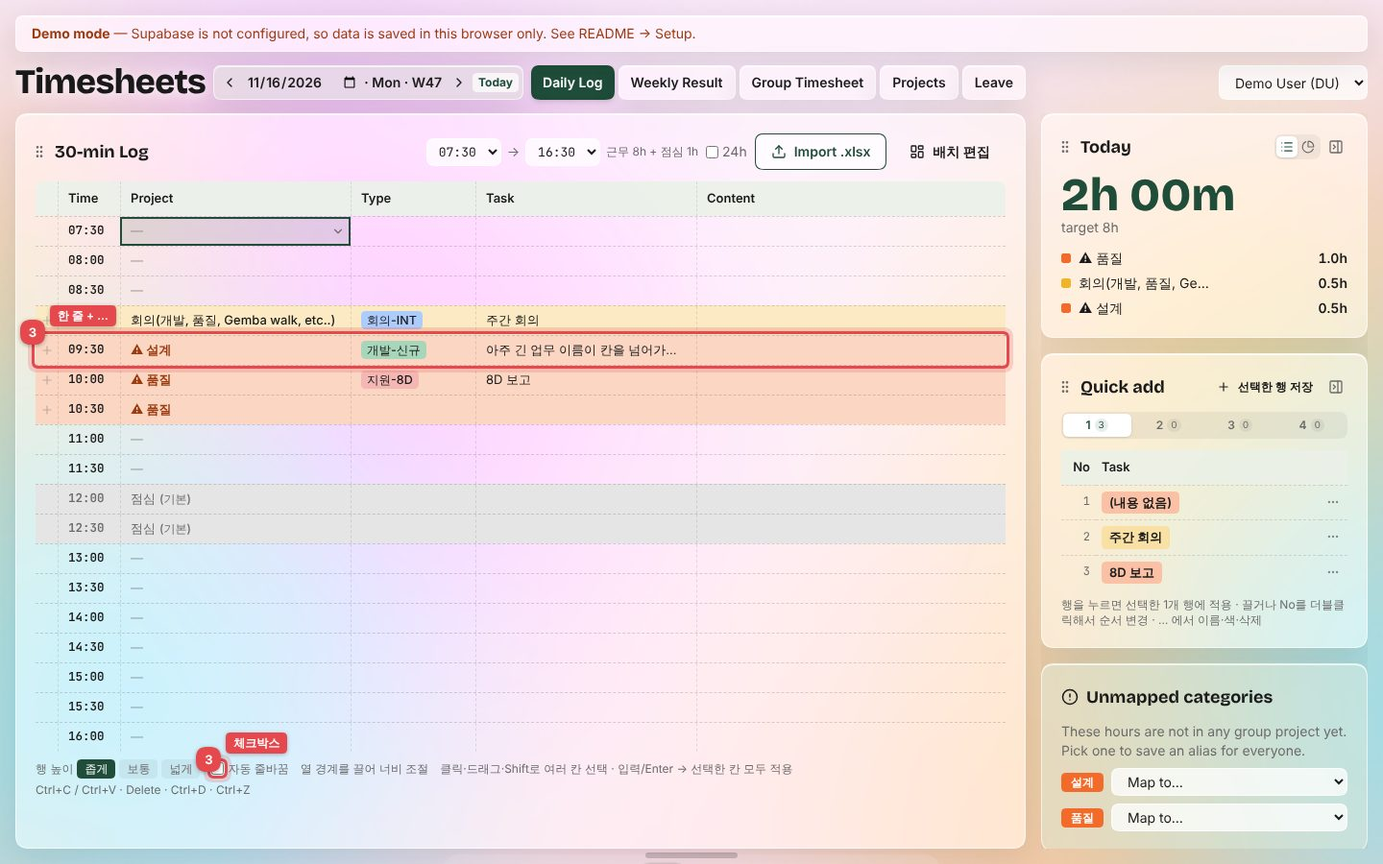
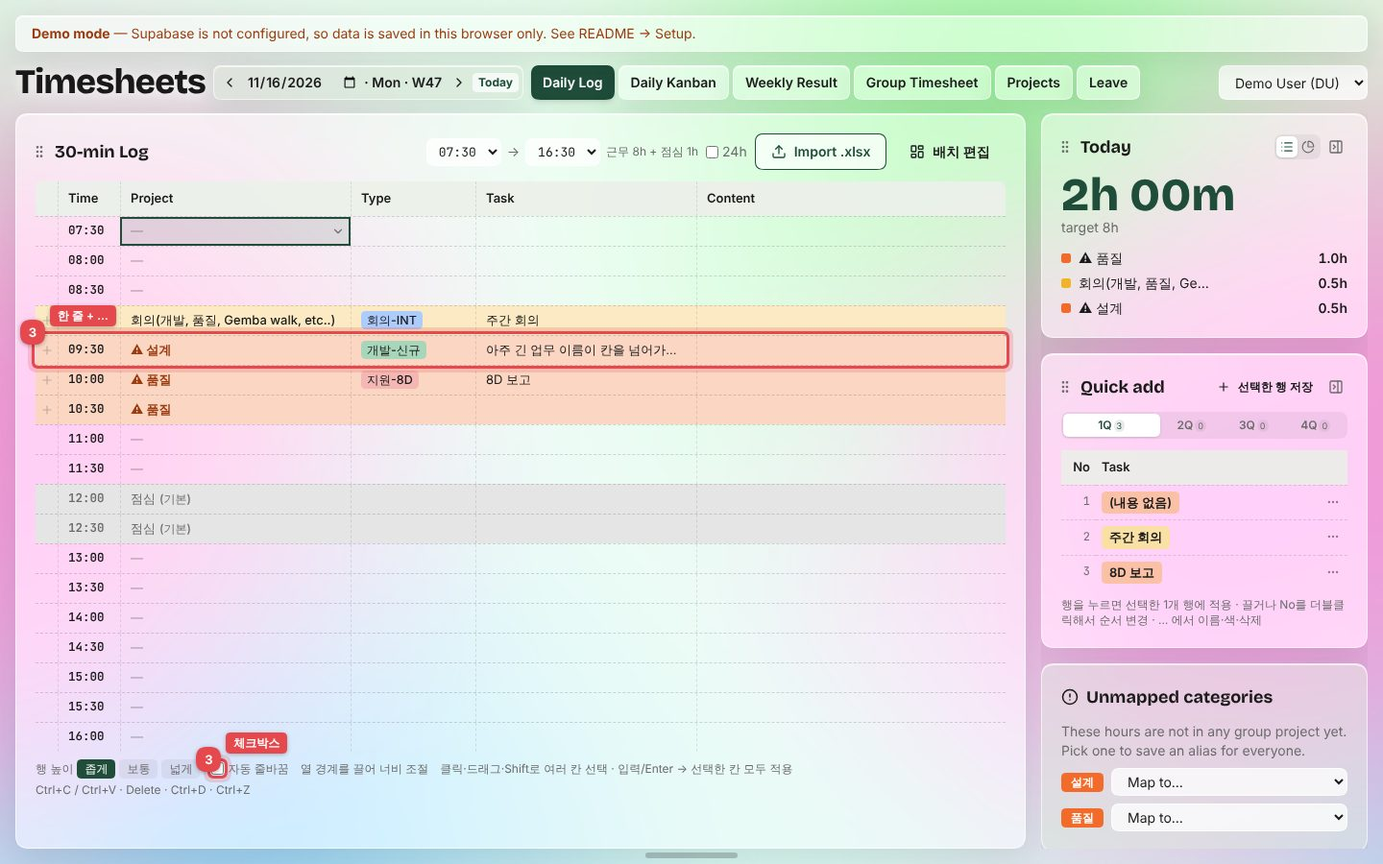
Verification reports: Daily Kanban, layout save without flash (commit f5d5a68)
Claude-Session: https://claude.ai/code/session_01A1L3RATWraiPWfjj96SejH

diff --git a/docs/test-reports/2026-11-26-layout/index.html b/docs/test-reports/2026-11-26-layout/index.html
@@ -49,10 +49,10 @@ a { color: var(--accent) } a:focus-visible, summary:focus-visible { outline: 2px
 @media (max-width: 640px) { dl { grid-template-columns: 1fr } h1 { font-size: 1.5rem } }
 </style></head><body><div class="wrap">
 <header class="head"><a href="../index.html" class="eyebrow">← 검증 보고서 목록</a><p class="eyebrow">검증 보고서 · E2E</p><h1>창 배치 편집 · 오른쪽 Dock · Today 그래프 · 자동 줄바꿈 · 빠른 등록</h1>
-<div class="meta"><span>날짜 2026-11-26</span><span>커밋 <code>873f7ac</code></span><span>스위트 <code>tests/e2e/batchO.e2e.cjs</code></span><span>Chromium 157.0.8103.78 · 1440×900 (휴대폰 390×844)</span><span>데모 모드(가상 데이터)</span></div></header>
-<section class="summary" aria-label="결과 요약"><span class="pill pass">PASS</span><strong>21 / 21</strong><span>테스트 케이스 통과 · 증적 화면 10장</span></section>
+<div class="meta"><span>날짜 2026-11-26</span><span>커밋 <code>f5d5a68</code></span><span>스위트 <code>tests/e2e/batchO.e2e.cjs</code></span><span>Chromium 157.0.8103.78 · 1440×900 (휴대폰 390×844)</span><span>데모 모드(가상 데이터)</span></div></header>
+<section class="summary" aria-label="결과 요약"><span class="pill pass">PASS</span><strong>22 / 22</strong><span>테스트 케이스 통과 · 증적 화면 10장</span></section>
 <section class="req"><div class="box"><h2>요청</h2><p>Task 없이 저장하면 (내용 없음) 또는 확인. 반복 업무 → 빠른 등록. 자동 줄바꿈 체크박스. 30-min Log · Today · 반복 업무 창의 크기·위치 조절(점 그리드, 아이폰처럼 흔들흔들, 저장/취소/기본 설정 토스트, 사용자마다 저장). Today 도넛 그래프. Today · 반복 업무를 아래 Dock처럼 오른쪽으로 숨기는 기능과 자석 체크박스.</p></div><div class="box"><h2>인수 기준</h2><ol><li>Task가 빈 행을 저장하려 하면 확인을 묻고, 저장하면 표에 (내용 없음)으로 보인다(프로젝트 이름이 아니라).</li><li>창 이름은 빠른 등록(영문 화면은 Quick add).</li><li>자동 줄바꿈을 끄면 긴 글이 한 줄로 줄고(행 높이 그대로) 마우스를 올리면 전체 글. 설정은 사람마다 저장.</li><li>Today 그래프 보기: 도넛, 가운데 합계, 항목별 %. 마우스를 올린 항목의 %가 가운데에. 보기 선택은 저장.</li><li>배치 편집(버튼 또는 제목줄 끌기): 점 그리드, 창이 흔들림, 옮기기·크기 조절이 그리드에 맞춰짐, 아래 토스트에 저장 / 취소 / 기본 설정으로.</li><li>저장한 배치는 새로 고쳐도 그대로, 취소는 되돌림, 기본 설정으로는 처음 배치.</li><li>자석 켬: Today · 빠른 등록을 오른쪽 끝에 놓으면 오른쪽 Dock으로. 자석 끔: 붙지 않음. 버튼으로도 넣고 꺼냄.</li><li>오른쪽 Dock은 평소 숨고, 마우스가 오른쪽 끝에 오면 나타나며, 멀어지면 다시 숨는다.</li><li>휴대폰은 배치 편집 없이 고정 배치.</li><li>(추가) 저장 물음은 맨 아래 작은 한 줄(편집 중에는 아래 Dock이 숨음). Today 창을 넓히면 왼쪽에 그래프, 오른쪽에 시간. 좁은 창의 긴 이름은 앞 10글자 정도 + …(마우스를 올리면 전체).</li></ol></div></section>
-<section style="display:grid;gap:12px"><h2>테스트 케이스</h2><div class="tablewrap"><table><thead><tr><th>#</th><th>테스트 케이스</th><th>기대 결과</th><th>실제 결과</th><th>판정 근거 (Assertion)</th><th>결과</th><th>증적</th></tr></thead><tbody><tr class=""><td class="n"><a href="#shot-1" title="증적 보기">1</a></td><td>창 이름: Quick add (한국어 화면은 빠른 등록)</td><td>영문 화면 제목 'Quick add'</td><td>'Quick add'</td><td><code>templates-panel h2 === 'Quick add'</code></td><td><span class="pill pass">PASS</span></td><td><a href="#shot-1">화면 1</a></td></tr><tr class=""><td class="n"><a href="#shot-1" title="증적 보기">2</a></td><td>Task가 빈 행: 확인을 묻고, 저장하면 (내용 없음)</td><td>확인 창 2번(취소 → 저장 안 됨, 확인 → 저장), 표에 '(내용 없음)'</td><td>확인 창 2번, 취소 후 0행, 저장 후 '(내용 없음)'</td><td><code>dialogs === 2 &amp;&amp; 취소 후 0행 &amp;&amp; Task 칸 === '(내용 없음)'</code></td><td><span class="pill pass">PASS</span></td><td><a href="#shot-1">화면 1</a></td></tr><tr class=""><td class="n"><a href="#shot-2" title="증적 보기">3</a></td><td>자동 줄바꿈을 끄면 한 줄(행 높이 그대로), 마우스를 올리면 전체 글, 설정 유지</td><td>켬: 행이 늘어남(&gt; 31px) / 끔: 빈 행과 같은 31px, title에 전체 글, 새로 고쳐도 꺼짐</td><td>켬 68px / 끔 31px, title 있음, 새로 고침 후 꺼짐</td><td><code>wrapped &gt; 빈 행 &amp;&amp; oneLine === 빈 행 높이 &amp;&amp; title 에 전체 글 &amp;&amp; 새로 고침 후 unchecked</code></td><td><span class="pill pass">PASS</span></td><td><a href="#shot-2">화면 2</a></td></tr><tr class=""><td class="n"><a href="#shot-3" title="증적 보기">4</a></td><td>좁은 창의 긴 이름: 앞 10글자 정도 + …, 마우스를 올리면 전체</td><td>긴 프로젝트 이름이 잘리고(…) 폭 ≤ 10글자(약 140px), title에 전체 이름</td><td>'회의(개발, 품질, Gemba walk, etc..)' 잘림, 폭 140px, title 전체 이름</td><td><code>scrollWidth &gt; clientWidth &amp;&amp; clientWidth ≤ 10em &amp;&amp; title === 전체 이름</code></td><td><span class="pill pass">PASS</span></td><td><a href="#shot-3">화면 3</a></td></tr><tr class=""><td class="n"><a href="#shot-4" title="증적 보기">5</a></td><td>Today 그래프: 도넛, 가운데 합계, 항목별 %, 올린 항목의 %</td><td>조각 3개, % 합 ≈ 100, 가운데 2h 00m, 올리면 가운데에 그 항목 %</td><td>조각 3개, % 50+25+25 = 100, 가운데 '2h 00m 오늘 기록', 올렸을 때 '50% ⚠ 품질'</td><td><code>slices === 3 &amp;&amp; |합 − 100| ≤ 2 &amp;&amp; center 에 2h 00m &amp;&amp; hover 시 %</code></td><td><span class="pill pass">PASS</span></td><td><a href="#shot-4">화면 4</a></td></tr><tr class=""><td class="n">6</td><td>그래프 보기 선택은 저장됨</td><td>새로 고쳐도 도넛</td><td>도넛</td><td><code>today-donut count === 1</code></td><td><span class="pill pass">PASS</span></td><td>—</td></tr><tr class=""><td class="n"><a href="#shot-5" title="증적 보기">7</a></td><td>배치 편집: 점 그리드, 창 3개가 흔들림, 저장 토스트</td><td>점 그리드 있음, data-jiggle 3개, 토스트 '배치를 저장하겠습니까?' + 저장/취소/기본 설정으로</td><td>점 그리드 1개, 흔들림 3개, 버튼 기본 설정으로/취소/저장</td><td><code>dot-grid === 1 &amp;&amp; jiggle === 3 &amp;&amp; 토스트 버튼 3개</code></td><td><span class="pill pass">PASS</span></td><td><a href="#shot-5">화면 5</a></td></tr><tr class=""><td class="n">8</td><td>저장 물음은 맨 아래 작은 한 줄, 아래 Dock은 숨음</td><td>높이 ≤ 44px, 화면 아래에서 16px 안, Dock 숨김</td><td>높이 36px, 아래 여백 8px, Dock 숨김</td><td><code>bar.height ≤ 44 &amp;&amp; 900 − bottom ≤ 16 &amp;&amp; dock visibility hidden</code></td><td><span class="pill pass">PASS</span></td><td>—</td></tr><tr class=""><td class="n"><a href="#shot-6" title="증적 보기">9</a></td><td>크기 조절과 옮기기가 점 간격(24px)에 맞춰짐</td><td>Today 폭 줄고 높이 늘어남, 빠른 등록 왼쪽 아래로 이동, 모든 값이 24의 배수</td><td>Today 336×312 → 288×408, 빠른 등록 (1080,336) → (576,576)</td><td><code>t1.w &lt; t0.w &amp;&amp; t1.h &gt; t0.h &amp;&amp; q1.x &lt; q0.x &amp;&amp; q1.y &gt; q0.y &amp;&amp; 값 % 24 === 0</code></td><td><span class="pill pass">PASS</span></td><td><a href="#shot-6">화면 6</a></td></tr><tr class=""><td class="n">10</td><td>저장한 배치는 새로 고쳐도 그대로, 흔들림 멈춤</td><td>Today 288×408, 빠른 등록 (576,576), 흔들림 0</td><td>Today 288×408, 빠른 등록 (576,576), 흔들림 0</td><td><code>새로 고친 뒤 rect 가 저장 전과 같음 &amp;&amp; data-jiggle=true 0개</code></td><td><span class="pill pass">PASS</span></td><td>—</td></tr><tr class=""><td class="n">11</td><td>제목줄을 끌어도 편집 시작, 취소하면 되돌아감</td><td>토스트 나타남, 옮긴 x ≠ 1080, 취소 후 x = 1080</td><td>토스트 나타남, 옮긴 x 792, 취소 후 x 1080</td><td><code>toast &amp;&amp; moved.x !== saved.x &amp;&amp; back.x === saved.x</code></td><td><span class="pill pass">PASS</span></td><td>—</td></tr><tr class=""><td class="n"><a href="#shot-7" title="증적 보기">12</a></td><td>자석 켬: 오른쪽 끝으로 끌면 오른쪽이 강조됨</td><td>'오른쪽 Dock' 강조 1개</td><td>1개</td><td><code>edge-drop-hint count === 1</code></td><td><span class="pill pass">PASS</span></td><td><a href="#shot-7">화면 7</a></td></tr><tr class=""><td class="n">13</td><td>놓으면 Today가 오른쪽 Dock으로</td><td>Today가 오른쪽 Dock 안에(페이지에는 없음)</td><td>오른쪽 Dock 안</td><td><code>edge-dock 안 today-panel &amp;&amp; 페이지 안 0개</code></td><td><span class="pill pass">PASS</span></td><td>—</td></tr><tr class=""><td class="n"><a href="#shot-8" title="증적 보기">14</a></td><td>오른쪽 Dock: 평소 숨고, 마우스가 오른쪽 끝에 오면 나타남</td><td>처음 'false' → 오른쪽 끝에서 'true'</td><td>'false' → 'true'</td><td><code>data-shown 'false' → 'true'</code></td><td><span class="pill pass">PASS</span></td><td><a href="#shot-8">화면 8</a></td></tr><tr class=""><td class="n">15</td><td>멀어지면 다시 숨음</td><td>data-shown 'false'</td><td>'false'</td><td><code>data-shown === 'false'</code></td><td><span class="pill pass">PASS</span></td><td>—</td></tr><tr class=""><td class="n">16</td><td>자석 끔: 오른쪽 끝에 놓아도 붙지 않음</td><td>강조 없음, 빠른 등록은 그리드에 남음</td><td>강조 0개, 위치 'grid'</td><td><code>edge-drop-hint 0개 &amp;&amp; data-place === 'grid'</code></td><td><span class="pill pass">PASS</span></td><td>—</td></tr><tr class=""><td class="n">17</td><td>버튼으로 오른쪽 Dock에 넣고 꺼냄</td><td>Today는 페이지로, 빠른 등록은 오른쪽 Dock으로</td><td>그대로 됨</td><td><code>page 안 today-panel &amp;&amp; edge-dock 안 templates-panel</code></td><td><span class="pill pass">PASS</span></td><td>—</td></tr><tr class=""><td class="n"><a href="#shot-9" title="증적 보기">18</a></td><td>기본 설정으로: 처음 배치(왼쪽 30-min Log, 오른쪽 Today · 빠른 등록)</td><td>data-layout 'default', 오른쪽 Dock 없음</td><td>'default', 오른쪽 Dock 0개</td><td><code>data-layout === 'default' &amp;&amp; edge-dock 0개</code></td><td><span class="pill pass">PASS</span></td><td><a href="#shot-9">화면 9</a></td></tr><tr class=""><td class="n"><a href="#shot-10" title="증적 보기">19</a></td><td>Today 창을 넓히면 왼쪽 그래프, 오른쪽 시간(이름 전체)</td><td>목록이 도넛 오른쪽에, 긴 이름도 잘리지 않음</td><td>목록 x 917 / 도넛 오른쪽 끝 893, 이름 전체</td><td><code>legend.x &gt; donut.right &amp;&amp; 이름 scrollWidth ≤ clientWidth</code></td><td><span class="pill pass">PASS</span></td><td><a href="#shot-10">화면 10</a></td></tr><tr class=""><td class="n">20</td><td>휴대폰은 고정 배치(배치 편집 없음)</td><td>배치 편집 버튼 0개</td><td>0개</td><td><code>button 배치 편집 count === 0</code></td><td><span class="pill pass">PASS</span></td><td>—</td></tr><tr class=""><td class="n">21</td><td>페이지 오류 없음</td><td>0건</td><td>0건</td><td><code>pageerror 수 === 0</code></td><td><span class="pill pass">PASS</span></td><td>—</td></tr></tbody></table></div></section>
-<section class="shots"><h2>증적 (주석 스크린샷)</h2><p style="margin:0;color:var(--muted)">빨간 테두리와 번호는 표의 테스트 케이스 번호입니다. 그 요소를 확인해 판정했습니다.</p><figure id="shot-1"><img src="shot-01.jpg" alt="빠른 등록: Task 없이 저장한 항목은 (내용 없음)" loading="lazy" width="1440" height="900"><figcaption><strong>화면 1. 빠른 등록: Task 없이 저장한 항목은 (내용 없음)</strong><div class="marks"><span><span class="badge">1</span>창 이름: Quick add (한국어 화면은 빠른 등록)</span><span><span class="badge">2</span>Task가 빈 행: 확인을 묻고, 저장하면 (내용 없음)</span></div></figcaption></figure><figure id="shot-2"><img src="shot-02.jpg" alt="자동 줄바꿈 끔: 긴 글이 한 줄로" loading="lazy" width="1440" height="900"><figcaption><strong>화면 2. 자동 줄바꿈 끔: 긴 글이 한 줄로</strong><div class="marks"><span><span class="badge">3</span>자동 줄바꿈을 끄면 한 줄(행 높이 그대로), 마우스를 올리면 전체 글, 설정 유지</span><span><span class="badge">3</span>자동 줄바꿈을 끄면 한 줄(행 높이 그대로), 마우스를 올리면 전체 글, 설정 유지</span></div></figcaption></figure><figure id="shot-3"><img src="shot-03.jpg" alt="좁은 Today 창: 긴 이름은 …로" loading="lazy" width="1440" height="900"><figcaption><strong>화면 3. 좁은 Today 창: 긴 이름은 …로</strong><div class="marks"><span><span class="badge">4</span>좁은 창의 긴 이름: 앞 10글자 정도 + …, 마우스를 올리면 전체</span></div></figcaption></figure><figure id="shot-4"><img src="shot-04.jpg" alt="Today 그래프 보기 (조각에 마우스)" loading="lazy" width="1440" height="900"><figcaption><strong>화면 4. Today 그래프 보기 (조각에 마우스)</strong><div class="marks"><span><span class="badge">5</span>Today 그래프: 도넛, 가운데 합계, 항목별 %, 올린 항목의 %</span></div></figcaption></figure><figure id="shot-5"><img src="shot-05.jpg" alt="배치 편집 중: 빠른 등록 창을 끄는 중" loading="lazy" width="1440" height="900"><figcaption><strong>화면 5. 배치 편집 중: 빠른 등록 창을 끄는 중</strong><div class="marks"><span><span class="badge">7</span>배치 편집: 점 그리드, 창 3개가 흔들림, 저장 토스트</span><span><span class="badge">7</span>배치 편집: 점 그리드, 창 3개가 흔들림, 저장 토스트</span></div></figcaption></figure><figure id="shot-6"><img src="shot-06.jpg" alt="옮기고 크기를 바꾼 뒤(저장 전)" loading="lazy" width="1440" height="900"><figcaption><strong>화면 6. 옮기고 크기를 바꾼 뒤(저장 전)</strong><div class="marks"><span><span class="badge">9</span>크기 조절과 옮기기가 점 간격(24px)에 맞춰짐</span><span><span class="badge">9</span>크기 조절과 옮기기가 점 간격(24px)에 맞춰짐</span></div></figcaption></figure><figure id="shot-7"><img src="shot-07.jpg" alt="자석: Today를 오른쪽 끝으로 끄는 중" loading="lazy" width="1440" height="900"><figcaption><strong>화면 7. 자석: Today를 오른쪽 끝으로 끄는 중</strong><div class="marks"><span><span class="badge">12</span>자석 켬: 오른쪽 끝으로 끌면 오른쪽이 강조됨</span></div></figcaption></figure><figure id="shot-8"><img src="shot-08.jpg" alt="마우스를 오른쪽 끝으로: 오른쪽 Dock이 나타남" loading="lazy" width="1440" height="900"><figcaption><strong>화면 8. 마우스를 오른쪽 끝으로: 오른쪽 Dock이 나타남</strong><div class="marks"><span><span class="badge">14</span>오른쪽 Dock: 평소 숨고, 마우스가 오른쪽 끝에 오면 나타남</span></div></figcaption></figure><figure id="shot-9"><img src="shot-09.jpg" alt="기본 설정으로 되돌린 화면" loading="lazy" width="1440" height="900"><figcaption><strong>화면 9. 기본 설정으로 되돌린 화면</strong><div class="marks"><span><span class="badge">18</span>기본 설정으로: 처음 배치(왼쪽 30-min Log, 오른쪽 Today · 빠른 등록)</span></div></figcaption></figure><figure id="shot-10"><img src="shot-10.jpg" alt="넓힌 Today 창(배치 편집 중, 아래 한 줄 저장 물음)" loading="lazy" width="1440" height="900"><figcaption><strong>화면 10. 넓힌 Today 창(배치 편집 중, 아래 한 줄 저장 물음)</strong><div class="marks"><span><span class="badge">19</span>Today 창을 넓히면 왼쪽 그래프, 오른쪽 시간(이름 전체)</span></div></figcaption></figure></section>
+<section style="display:grid;gap:12px"><h2>테스트 케이스</h2><div class="tablewrap"><table><thead><tr><th>#</th><th>테스트 케이스</th><th>기대 결과</th><th>실제 결과</th><th>판정 근거 (Assertion)</th><th>결과</th><th>증적</th></tr></thead><tbody><tr class=""><td class="n"><a href="#shot-1" title="증적 보기">1</a></td><td>창 이름: Quick add (한국어 화면은 빠른 등록)</td><td>영문 화면 제목 'Quick add'</td><td>'Quick add'</td><td><code>templates-panel h2 === 'Quick add'</code></td><td><span class="pill pass">PASS</span></td><td><a href="#shot-1">화면 1</a></td></tr><tr class=""><td class="n"><a href="#shot-1" title="증적 보기">2</a></td><td>Task가 빈 행: 확인을 묻고, 저장하면 (내용 없음)</td><td>확인 창 2번(취소 → 저장 안 됨, 확인 → 저장), 표에 '(내용 없음)'</td><td>확인 창 2번, 취소 후 0행, 저장 후 '(내용 없음)'</td><td><code>dialogs === 2 &amp;&amp; 취소 후 0행 &amp;&amp; Task 칸 === '(내용 없음)'</code></td><td><span class="pill pass">PASS</span></td><td><a href="#shot-1">화면 1</a></td></tr><tr class=""><td class="n"><a href="#shot-2" title="증적 보기">3</a></td><td>자동 줄바꿈을 끄면 한 줄(행 높이 그대로), 마우스를 올리면 전체 글, 설정 유지</td><td>켬: 행이 늘어남(&gt; 31px) / 끔: 빈 행과 같은 31px, title에 전체 글, 새로 고쳐도 꺼짐</td><td>켬 68px / 끔 31px, title 있음, 새로 고침 후 꺼짐</td><td><code>wrapped &gt; 빈 행 &amp;&amp; oneLine === 빈 행 높이 &amp;&amp; title 에 전체 글 &amp;&amp; 새로 고침 후 unchecked</code></td><td><span class="pill pass">PASS</span></td><td><a href="#shot-2">화면 2</a></td></tr><tr class=""><td class="n"><a href="#shot-3" title="증적 보기">4</a></td><td>좁은 창의 긴 이름: 앞 10글자 정도 + …, 마우스를 올리면 전체</td><td>긴 프로젝트 이름이 잘리고(…) 폭 ≤ 10글자(약 140px), title에 전체 이름</td><td>'회의(개발, 품질, Gemba walk, etc..)' 잘림, 폭 140px, title 전체 이름</td><td><code>scrollWidth &gt; clientWidth &amp;&amp; clientWidth ≤ 10em &amp;&amp; title === 전체 이름</code></td><td><span class="pill pass">PASS</span></td><td><a href="#shot-3">화면 3</a></td></tr><tr class=""><td class="n"><a href="#shot-4" title="증적 보기">5</a></td><td>Today 그래프: 도넛, 가운데 합계, 항목별 %, 올린 항목의 %</td><td>조각 3개, % 합 ≈ 100, 가운데 2h 00m, 올리면 가운데에 그 항목 %</td><td>조각 3개, % 50+25+25 = 100, 가운데 '2h 00m 오늘 기록', 올렸을 때 '50% ⚠ 품질'</td><td><code>slices === 3 &amp;&amp; |합 − 100| ≤ 2 &amp;&amp; center 에 2h 00m &amp;&amp; hover 시 %</code></td><td><span class="pill pass">PASS</span></td><td><a href="#shot-4">화면 4</a></td></tr><tr class=""><td class="n">6</td><td>그래프 보기 선택은 저장됨</td><td>새로 고쳐도 도넛</td><td>도넛</td><td><code>today-donut count === 1</code></td><td><span class="pill pass">PASS</span></td><td>—</td></tr><tr class=""><td class="n"><a href="#shot-5" title="증적 보기">7</a></td><td>배치 편집: 점 그리드, 창 3개가 흔들림, 저장 토스트</td><td>점 그리드 있음, data-jiggle 3개, 토스트 '배치를 저장하겠습니까?' + 저장/취소/기본 설정으로</td><td>점 그리드 1개, 흔들림 3개, 버튼 기본 설정으로/취소/저장</td><td><code>dot-grid === 1 &amp;&amp; jiggle === 3 &amp;&amp; 토스트 버튼 3개</code></td><td><span class="pill pass">PASS</span></td><td><a href="#shot-5">화면 5</a></td></tr><tr class=""><td class="n">8</td><td>저장 물음은 맨 아래 작은 한 줄, 아래 Dock은 숨음</td><td>높이 ≤ 44px, 화면 아래에서 16px 안, Dock 숨김</td><td>높이 36px, 아래 여백 8px, Dock 숨김</td><td><code>bar.height ≤ 44 &amp;&amp; 900 − bottom ≤ 16 &amp;&amp; dock visibility hidden</code></td><td><span class="pill pass">PASS</span></td><td>—</td></tr><tr class=""><td class="n"><a href="#shot-6" title="증적 보기">9</a></td><td>크기 조절과 옮기기가 점 간격(24px)에 맞춰짐</td><td>Today 폭 줄고 높이 늘어남, 빠른 등록 왼쪽 아래로 이동, 모든 값이 24의 배수</td><td>Today 336×312 → 288×408, 빠른 등록 (1080,336) → (576,576)</td><td><code>t1.w &lt; t0.w &amp;&amp; t1.h &gt; t0.h &amp;&amp; q1.x &lt; q0.x &amp;&amp; q1.y &gt; q0.y &amp;&amp; 값 % 24 === 0</code></td><td><span class="pill pass">PASS</span></td><td><a href="#shot-6">화면 6</a></td></tr><tr class=""><td class="n">10</td><td>저장을 누르면 예전 배치가 번쩍이지 않고 바로 새 배치</td><td>저장이 0.3초 걸려도, 저장 직후 0.8초 동안 매 프레임 빠른 등록 창 위치가 (576,576) 하나뿐</td><td>보인 위치 576,576</td><td><code>프레임마다 offsetLeft,offsetTop 을 모아 서로 다른 값이 1개</code></td><td><span class="pill pass">PASS</span></td><td>—</td></tr><tr class=""><td class="n">11</td><td>저장한 배치는 새로 고쳐도 그대로, 흔들림 멈춤</td><td>Today 288×408, 빠른 등록 (576,576), 흔들림 0</td><td>Today 288×408, 빠른 등록 (576,576), 흔들림 0</td><td><code>새로 고친 뒤 rect 가 저장 전과 같음 &amp;&amp; data-jiggle=true 0개</code></td><td><span class="pill pass">PASS</span></td><td>—</td></tr><tr class=""><td class="n">12</td><td>제목줄을 끌어도 편집 시작, 취소하면 되돌아감</td><td>토스트 나타남, 옮긴 x ≠ 1080, 취소 후 x = 1080</td><td>토스트 나타남, 옮긴 x 792, 취소 후 x 1080</td><td><code>toast &amp;&amp; moved.x !== saved.x &amp;&amp; back.x === saved.x</code></td><td><span class="pill pass">PASS</span></td><td>—</td></tr><tr class=""><td class="n"><a href="#shot-7" title="증적 보기">13</a></td><td>자석 켬: 오른쪽 끝으로 끌면 오른쪽이 강조됨</td><td>'오른쪽 Dock' 강조 1개</td><td>1개</td><td><code>edge-drop-hint count === 1</code></td><td><span class="pill pass">PASS</span></td><td><a href="#shot-7">화면 7</a></td></tr><tr class=""><td class="n">14</td><td>놓으면 Today가 오른쪽 Dock으로</td><td>Today가 오른쪽 Dock 안에(페이지에는 없음)</td><td>오른쪽 Dock 안</td><td><code>edge-dock 안 today-panel &amp;&amp; 페이지 안 0개</code></td><td><span class="pill pass">PASS</span></td><td>—</td></tr><tr class=""><td class="n"><a href="#shot-8" title="증적 보기">15</a></td><td>오른쪽 Dock: 평소 숨고, 마우스가 오른쪽 끝에 오면 나타남</td><td>처음 'false' → 오른쪽 끝에서 'true'</td><td>'false' → 'true'</td><td><code>data-shown 'false' → 'true'</code></td><td><span class="pill pass">PASS</span></td><td><a href="#shot-8">화면 8</a></td></tr><tr class=""><td class="n">16</td><td>멀어지면 다시 숨음</td><td>data-shown 'false'</td><td>'false'</td><td><code>data-shown === 'false'</code></td><td><span class="pill pass">PASS</span></td><td>—</td></tr><tr class=""><td class="n">17</td><td>자석 끔: 오른쪽 끝에 놓아도 붙지 않음</td><td>강조 없음, 빠른 등록은 그리드에 남음</td><td>강조 0개, 위치 'grid'</td><td><code>edge-drop-hint 0개 &amp;&amp; data-place === 'grid'</code></td><td><span class="pill pass">PASS</span></td><td>—</td></tr><tr class=""><td class="n">18</td><td>버튼으로 오른쪽 Dock에 넣고 꺼냄</td><td>Today는 페이지로, 빠른 등록은 오른쪽 Dock으로</td><td>그대로 됨</td><td><code>page 안 today-panel &amp;&amp; edge-dock 안 templates-panel</code></td><td><span class="pill pass">PASS</span></td><td>—</td></tr><tr class=""><td class="n"><a href="#shot-9" title="증적 보기">19</a></td><td>기본 설정으로: 처음 배치(왼쪽 30-min Log, 오른쪽 Today · 빠른 등록)</td><td>data-layout 'default', 오른쪽 Dock 없음</td><td>'default', 오른쪽 Dock 0개</td><td><code>data-layout === 'default' &amp;&amp; edge-dock 0개</code></td><td><span class="pill pass">PASS</span></td><td><a href="#shot-9">화면 9</a></td></tr><tr class=""><td class="n"><a href="#shot-10" title="증적 보기">20</a></td><td>Today 창을 넓히면 왼쪽 그래프, 오른쪽 시간(이름 전체)</td><td>목록이 도넛 오른쪽에, 긴 이름도 잘리지 않음</td><td>목록 x 917 / 도넛 오른쪽 끝 893, 이름 전체</td><td><code>legend.x &gt; donut.right &amp;&amp; 이름 scrollWidth ≤ clientWidth</code></td><td><span class="pill pass">PASS</span></td><td><a href="#shot-10">화면 10</a></td></tr><tr class=""><td class="n">21</td><td>휴대폰은 고정 배치(배치 편집 없음)</td><td>배치 편집 버튼 0개</td><td>0개</td><td><code>button 배치 편집 count === 0</code></td><td><span class="pill pass">PASS</span></td><td>—</td></tr><tr class=""><td class="n">22</td><td>페이지 오류 없음</td><td>0건</td><td>0건</td><td><code>pageerror 수 === 0</code></td><td><span class="pill pass">PASS</span></td><td>—</td></tr></tbody></table></div></section>
+<section class="shots"><h2>증적 (주석 스크린샷)</h2><p style="margin:0;color:var(--muted)">빨간 테두리와 번호는 표의 테스트 케이스 번호입니다. 그 요소를 확인해 판정했습니다.</p><figure id="shot-1"><img src="shot-01.jpg" alt="빠른 등록: Task 없이 저장한 항목은 (내용 없음)" loading="lazy" width="1440" height="900"><figcaption><strong>화면 1. 빠른 등록: Task 없이 저장한 항목은 (내용 없음)</strong><div class="marks"><span><span class="badge">1</span>창 이름: Quick add (한국어 화면은 빠른 등록)</span><span><span class="badge">2</span>Task가 빈 행: 확인을 묻고, 저장하면 (내용 없음)</span></div></figcaption></figure><figure id="shot-2"><img src="shot-02.jpg" alt="자동 줄바꿈 끔: 긴 글이 한 줄로" loading="lazy" width="1440" height="900"><figcaption><strong>화면 2. 자동 줄바꿈 끔: 긴 글이 한 줄로</strong><div class="marks"><span><span class="badge">3</span>자동 줄바꿈을 끄면 한 줄(행 높이 그대로), 마우스를 올리면 전체 글, 설정 유지</span><span><span class="badge">3</span>자동 줄바꿈을 끄면 한 줄(행 높이 그대로), 마우스를 올리면 전체 글, 설정 유지</span></div></figcaption></figure><figure id="shot-3"><img src="shot-03.jpg" alt="좁은 Today 창: 긴 이름은 …로" loading="lazy" width="1440" height="900"><figcaption><strong>화면 3. 좁은 Today 창: 긴 이름은 …로</strong><div class="marks"><span><span class="badge">4</span>좁은 창의 긴 이름: 앞 10글자 정도 + …, 마우스를 올리면 전체</span></div></figcaption></figure><figure id="shot-4"><img src="shot-04.jpg" alt="Today 그래프 보기 (조각에 마우스)" loading="lazy" width="1440" height="900"><figcaption><strong>화면 4. Today 그래프 보기 (조각에 마우스)</strong><div class="marks"><span><span class="badge">5</span>Today 그래프: 도넛, 가운데 합계, 항목별 %, 올린 항목의 %</span></div></figcaption></figure><figure id="shot-5"><img src="shot-05.jpg" alt="배치 편집 중: 빠른 등록 창을 끄는 중" loading="lazy" width="1440" height="900"><figcaption><strong>화면 5. 배치 편집 중: 빠른 등록 창을 끄는 중</strong><div class="marks"><span><span class="badge">7</span>배치 편집: 점 그리드, 창 3개가 흔들림, 저장 토스트</span><span><span class="badge">7</span>배치 편집: 점 그리드, 창 3개가 흔들림, 저장 토스트</span></div></figcaption></figure><figure id="shot-6"><img src="shot-06.jpg" alt="옮기고 크기를 바꾼 뒤(저장 전)" loading="lazy" width="1440" height="900"><figcaption><strong>화면 6. 옮기고 크기를 바꾼 뒤(저장 전)</strong><div class="marks"><span><span class="badge">9</span>크기 조절과 옮기기가 점 간격(24px)에 맞춰짐</span><span><span class="badge">9</span>크기 조절과 옮기기가 점 간격(24px)에 맞춰짐</span></div></figcaption></figure><figure id="shot-7"><img src="shot-07.jpg" alt="자석: Today를 오른쪽 끝으로 끄는 중" loading="lazy" width="1440" height="900"><figcaption><strong>화면 7. 자석: Today를 오른쪽 끝으로 끄는 중</strong><div class="marks"><span><span class="badge">13</span>자석 켬: 오른쪽 끝으로 끌면 오른쪽이 강조됨</span></div></figcaption></figure><figure id="shot-8"><img src="shot-08.jpg" alt="마우스를 오른쪽 끝으로: 오른쪽 Dock이 나타남" loading="lazy" width="1440" height="900"><figcaption><strong>화면 8. 마우스를 오른쪽 끝으로: 오른쪽 Dock이 나타남</strong><div class="marks"><span><span class="badge">15</span>오른쪽 Dock: 평소 숨고, 마우스가 오른쪽 끝에 오면 나타남</span></div></figcaption></figure><figure id="shot-9"><img src="shot-09.jpg" alt="기본 설정으로 되돌린 화면" loading="lazy" width="1440" height="900"><figcaption><strong>화면 9. 기본 설정으로 되돌린 화면</strong><div class="marks"><span><span class="badge">19</span>기본 설정으로: 처음 배치(왼쪽 30-min Log, 오른쪽 Today · 빠른 등록)</span></div></figcaption></figure><figure id="shot-10"><img src="shot-10.jpg" alt="넓힌 Today 창(배치 편집 중, 아래 한 줄 저장 물음)" loading="lazy" width="1440" height="900"><figcaption><strong>화면 10. 넓힌 Today 창(배치 편집 중, 아래 한 줄 저장 물음)</strong><div class="marks"><span><span class="badge">20</span>Today 창을 넓히면 왼쪽 그래프, 오른쪽 시간(이름 전체)</span></div></figcaption></figure></section>
 <details><summary>용어</summary><dl><dt>테스트 리포트 (Test Report)</dt><dd>무엇을 어떻게 확인했고 결과가 어땠는지 정리한 검증 보고서. 이 문서.</dd><dt>테스트 케이스 (Test Case)</dt><dd>확인 항목 하나. 표의 한 줄.</dd><dt>인수 기준 (Acceptance Criteria)</dt><dd>요청이 &quot;다 됐다&quot;고 볼 조건. 테스트 케이스는 여기서 나온다.</dd><dt>기대 결과 / 실제 결과 (Expected / Actual)</dt><dd>나와야 하는 것과 실제로 나온 것. 판정 근거의 조건을 만족하면 PASS.</dd><dt>단언 (Assertion)</dt><dd>판정 조건을 코드로 쓴 것. 표의 &quot;판정 근거&quot; 열.</dd><dt>증적 (Test Evidence)</dt><dd>통과를 보여 주는 증거. 여기서는 주석 스크린샷.</dd><dt>주석 스크린샷 (Annotated Screenshot)</dt><dd>확인한 요소에 빨간 테두리와 테스트 케이스 번호를 그린 화면.</dd><dt>E2E 테스트 (End-to-End)</dt><dd>실제 브라우저(Chromium)로 사용자처럼 눌러 보며 확인하는 테스트. 이 보고서의 테스트.</dd><dt>단위 테스트 (Unit Test)</dt><dd>함수 하나를 따로 확인하는 테스트(npm test).</dd><dt>회귀 테스트 (Regression Test)</dt><dd>새 기능 때문에 예전 기능이 깨지지 않았는지 전체를 다시 돌리는 것(npm run test:e2e).</dd><dt>추적성 (Traceability)</dt><dd>요청 ↔ 테스트 ↔ 커밋을 서로 찾아갈 수 있게 연결해 두는 것. 머리말의 커밋·스위트 정보.</dd></dl></details>
 </div></body></html>

diff --git a/docs/test-reports/2026-11-26-kanban/index.html b/docs/test-reports/2026-11-26-kanban/index.html
@@ -1,0 +1,58 @@
+<!doctype html><html lang="ko"><head><meta charset="utf-8"><meta name="viewport" content="width=device-width, initial-scale=1, viewport-fit=cover"><title>Daily Kanban (Daily Log와 연동) 검증 보고서</title><meta name="claude:viewport-fit-sides" content="cover"><link rel="preconnect" href="https://fonts.googleapis.com"><link rel="stylesheet" href="https://fonts.googleapis.com/css2?family=IBM+Plex+Mono:wght@500;700&family=IBM+Plex+Sans+KR:wght@400;600;700&display=swap"><style>
+:root {
+  /* QA sheet: summary band, a table of test cases, then the evidence; red marks match the screenshots */
+  --bg: #F6F7F8; --surface: #FFFFFF; --ink: #1B2228; --muted: #5E6A73; --line: #DDE2E6;
+  --pass: #1E7B4D; --pass-bg: #E3F3EA; --fail: #B4232B; --fail-bg: #FBE6E7; --mark: #E5484D; --accent: #1F4D3A;
+  --font: 'IBM Plex Sans KR', system-ui, -apple-system, 'Apple SD Gothic Neo', 'Malgun Gothic', sans-serif;
+  --mono: 'IBM Plex Mono', ui-monospace, 'SFMono-Regular', Menlo, Consolas, monospace;
+}
+@media (prefers-color-scheme: dark) { :root:not([data-theme="light"]) {
+  --bg: #12171B; --surface: #1A2126; --ink: #E7ECEF; --muted: #9AA7B0; --line: #2C363D;
+  --pass: #5FD39A; --pass-bg: #173528; --fail: #FF8A8F; --fail-bg: #3A1D20; --accent: #8FD1B2; color-scheme: dark } }
+:root[data-theme="dark"] {
+  --bg: #12171B; --surface: #1A2126; --ink: #E7ECEF; --muted: #9AA7B0; --line: #2C363D;
+  --pass: #5FD39A; --pass-bg: #173528; --fail: #FF8A8F; --fail-bg: #3A1D20; --accent: #8FD1B2; color-scheme: dark }
+* { box-sizing: border-box }
+body { margin: 0; background: var(--bg); color: var(--ink); font: 15px/1.6 var(--font) }
+.wrap { max-width: 1180px; margin: 0 auto; padding-block: 28px 64px; padding-left: max(16px, env(safe-area-inset-left, 0px)); padding-right: max(16px, env(safe-area-inset-right, 0px)); display: grid; gap: 28px }
+h1, h2, h3 { line-height: 1.25; text-wrap: balance; margin: 0 }
+h1 { font-size: 1.9rem; font-weight: 700 }
+h2 { font-size: 1.25rem; font-weight: 700 }
+.eyebrow { font: 600 12px/1 var(--mono); letter-spacing: .08em; text-transform: uppercase; color: var(--muted) }
+.head { display: grid; gap: 10px }
+.meta { display: flex; flex-wrap: wrap; gap: 6px 18px; color: var(--muted); font-size: 13px }
+.meta code, td code, .assert { font-family: var(--mono); font-size: 12.5px }
+.pill { display: inline-flex; align-items: center; gap: 6px; padding: 2px 10px; border-radius: 999px; font: 700 12px/20px var(--mono); letter-spacing: .03em }
+.pill.pass { background: var(--pass-bg); color: var(--pass) } .pill.fail { background: var(--fail-bg); color: var(--fail) }
+.summary { display: flex; flex-wrap: wrap; align-items: center; gap: 12px; padding: 14px 18px; background: var(--surface); border: 1px solid var(--line); border-radius: 12px }
+.summary strong { font-size: 1.5rem; font-variant-numeric: tabular-nums }
+.req { display: grid; gap: 12px; grid-template-columns: repeat(auto-fit, minmax(280px, 1fr)) }
+.box { background: var(--surface); border: 1px solid var(--line); border-radius: 12px; padding: 16px 18px; min-width: 0 }
+.box p { margin: 6px 0 0; max-width: 68ch } .box ol { margin: 8px 0 0; padding-left: 1.3em; display: grid; gap: 4px }
+.tablewrap { overflow-x: auto; background: var(--surface); border: 1px solid var(--line); border-radius: 12px }
+table { border-collapse: collapse; width: 100%; min-width: 860px; font-size: 13.5px }
+th { text-align: left; font-weight: 600; color: var(--muted); font-size: 12px; letter-spacing: .04em; padding: 10px 12px; border-bottom: 1px solid var(--line); background: var(--surface); position: sticky; top: 0 }
+td { padding: 10px 12px; border-top: 1px solid var(--line); vertical-align: top }
+td.n { font: 700 13px var(--mono); color: var(--mark); width: 44px } td.n a { color: inherit; text-decoration: none }
+tr.fail td { background: var(--fail-bg) }
+.shots { display: grid; gap: 22px }
+figure { margin: 0; background: var(--surface); border: 1px solid var(--line); border-radius: 12px; overflow: hidden; scroll-margin-top: 16px }
+figure img { display: block; width: 100%; height: auto; border-bottom: 1px solid var(--line) }
+figcaption { padding: 12px 16px; display: grid; gap: 6px }
+.marks { display: flex; flex-wrap: wrap; gap: 6px 14px; font-size: 13px; color: var(--muted) }
+.badge { display: inline-flex; align-items: center; justify-content: center; min-width: 22px; height: 22px; padding: 0 5px; border-radius: 11px; background: var(--mark); color: #fff; font: 700 12px/22px var(--mono); margin-right: 4px }
+details { background: var(--surface); border: 1px solid var(--line); border-radius: 12px; padding: 12px 18px }
+summary { cursor: pointer; font-weight: 600 }
+dl { display: grid; grid-template-columns: max-content 1fr; gap: 6px 18px; margin: 12px 0 4px } dt { font-weight: 600 } dd { margin: 0; color: var(--muted) }
+a { color: var(--accent) } a:focus-visible, summary:focus-visible { outline: 2px solid var(--accent); outline-offset: 2px }
+.list { display: grid; gap: 12px } .row { display: flex; flex-wrap: wrap; gap: 8px 16px; align-items: baseline; justify-content: space-between }
+@media (max-width: 640px) { dl { grid-template-columns: 1fr } h1 { font-size: 1.5rem } }
+</style></head><body><div class="wrap">
+<header class="head"><a href="../index.html" class="eyebrow">← 검증 보고서 목록</a><p class="eyebrow">검증 보고서 · E2E</p><h1>Daily Kanban (Daily Log와 연동)</h1>
+<div class="meta"><span>날짜 2026-11-26</span><span>커밋 <code>f5d5a68</code></span><span>스위트 <code>tests/e2e/batchR.e2e.cjs</code></span><span>Chromium 157.0.8103.78 · 1440×900 (휴대폰 390×844), 시계 2026-11-26 10:10 고정</span><span>데모 모드(가상 데이터)</span></div></header>
+<section class="summary" aria-label="결과 요약"><span class="pill pass">PASS</span><strong>10 / 10</strong><span>테스트 케이스 통과 · 증적 화면 4장</span></section>
+<section class="req"><div class="box"><h2>요청</h2><p>Daily Log 옆에 Daily Kanban. Backlog · ToDo · Wait · Doing · DoneCheck · Done. Doing은 Daily Log에서 지금 하는 업무가 기록되면, 이전 업무도 자연스럽게 칸반에. 완료까지 표시. (이동 여정 분석은 나중에, 기록은 지금부터)</p></div><div class="box"><h2>인수 기준</h2><ol><li>Timesheets에 Daily Log 다음 탭으로 Daily Kanban, 칸 6개.</li><li>업무(Project · Type · Task) 하나가 카드 하나. Daily Log에 처음 나온 업무는 카드가 생긴다.</li><li>오늘 이미 시작된 가장 늦은 칸에 기록한 업무가 Doing, 그 전에 Doing이던 카드는 Wait.</li><li>Backlog에 카드를 직접 추가하고, 카드를 끌어서 다른 칸으로 옮기거나 … 메뉴로 옮긴다. Done은 완료 날짜 표시.</li><li>끝난(Done) 업무를 다시 기록하면 Doing으로 돌아온다.</li><li>모든 칸 이동이 기록된다(나중에 Wait ↔ Doing 반복 분석용).</li><li>새로 고쳐도 그대로, 휴대폰에서는 칸이 옆으로 넘어간다.</li></ol></div></section>
+<section style="display:grid;gap:12px"><h2>테스트 케이스</h2><div class="tablewrap"><table><thead><tr><th>#</th><th>테스트 케이스</th><th>기대 결과</th><th>실제 결과</th><th>판정 근거 (Assertion)</th><th>결과</th><th>증적</th></tr></thead><tbody><tr class=""><td class="n"><a href="#shot-1" title="증적 보기">1</a></td><td>Daily Log 다음 탭에 Daily Kanban, 칸 6개</td><td>Daily Log → Daily Kanban 순서, backlog·todo·wait·doing·donecheck·done</td><td>순서 맞음, backlog·todo·wait·doing·donecheck·done</td><td><code>탭 순서 &amp;&amp; data-column 6개</code></td><td><span class="pill pass">PASS</span></td><td><a href="#shot-1">화면 1</a></td></tr><tr class=""><td class="n"><a href="#shot-1" title="증적 보기">2</a></td><td>기록한 업무마다 카드, 지금(09:30 칸)의 업무가 Doing, 앞의 업무는 Wait</td><td>Doing '도면 검토', Wait '주간 회의'</td><td>Doing '도면 검토', Wait '주간 회의'</td><td><code>doing === ['도면 검토'] &amp;&amp; wait === ['주간 회의']</code></td><td><span class="pill pass">PASS</span></td><td><a href="#shot-1">화면 1</a></td></tr><tr class=""><td class="n"><a href="#shot-2" title="증적 보기">3</a></td><td>다음 칸(10:00)을 기록하면 그 업무가 Doing, 도면 검토는 Wait로</td><td>Doing '8D 보고', Wait '주간 회의, 도면 검토'</td><td>Doing '8D 보고', Wait '주간 회의, 도면 검토'</td><td><code>doing === ['8D 보고'] &amp;&amp; wait === ['주간 회의','도면 검토']</code></td><td><span class="pill pass">PASS</span></td><td><a href="#shot-2">화면 2</a></td></tr><tr class=""><td class="n"><a href="#shot-2" title="증적 보기">4</a></td><td>Backlog에 카드 추가, 끌어서 ToDo로</td><td>추가 후 Backlog '견적 검토' → ToDo로 이동</td><td>추가 후 Backlog '견적 검토', 끈 뒤 ToDo '견적 검토', Backlog ''</td><td><code>backlog 에 추가 → todo === ['견적 검토'] &amp;&amp; backlog 비어 있음</code></td><td><span class="pill pass">PASS</span></td><td><a href="#shot-2">화면 2</a></td></tr><tr class=""><td class="n"><a href="#shot-3" title="증적 보기">5</a></td><td>… 메뉴로 DoneCheck → Done, 완료 날짜 표시</td><td>DoneCheck를 거쳐 Done에 '도면 검토', '완료 …' 표시</td><td>DoneCheck '도면 검토' → Done 카드 '도면 검토 ⚠ 설계 개발-신규 완료 11/26/2026'</td><td><code>donecheck 에 있다가 done 에 있고 '완료' 글자</code></td><td><span class="pill pass">PASS</span></td><td><a href="#shot-3">화면 3</a></td></tr><tr class=""><td class="n">6</td><td>새로 고쳐도 보드 그대로</td><td>Done '도면 검토', ToDo '견적 검토', Doing '8D 보고'</td><td>Done '도면 검토', ToDo '견적 검토', Doing '8D 보고'</td><td><code>새로 고침 후 같은 칸</code></td><td><span class="pill pass">PASS</span></td><td>—</td></tr><tr class=""><td class="n"><a href="#shot-4" title="증적 보기">7</a></td><td>끝난 업무를 다시 기록하면 Doing으로 돌아옴</td><td>10:30 칸에 '도면 검토' → Doing, '8D 보고' → Wait</td><td>Doing '도면 검토', Wait '주간 회의, 8D 보고', Done ''</td><td><code>doing === ['도면 검토'] &amp;&amp; wait 에 '8D 보고' &amp;&amp; done 비어 있음</code></td><td><span class="pill pass">PASS</span></td><td><a href="#shot-4">화면 4</a></td></tr><tr class=""><td class="n"><a href="#shot-4" title="증적 보기">8</a></td><td>칸 이동이 모두 기록됨(여정)</td><td>doing(log) → wait(log) → donecheck(manual) → done(manual) → doing(log)</td><td>doing(log) → wait(log) → donecheck(manual) → done(manual) → doing(log)</td><td><code>kanban_moves 의 to_status(reason) 순서</code></td><td><span class="pill pass">PASS</span></td><td><a href="#shot-4">화면 4</a></td></tr><tr class=""><td class="n">9</td><td>휴대폰: 칸은 보드 안에서 옆으로 넘어가고 페이지는 넘치지 않음</td><td>페이지 폭 ≤ 390, 보드 내용 &gt; 390(옆으로 스크롤)</td><td>페이지 390px, 보드 내용 1380px</td><td><code>documentElement.scrollWidth ≤ 390 &amp;&amp; board.scrollWidth &gt; 390</code></td><td><span class="pill pass">PASS</span></td><td>—</td></tr><tr class=""><td class="n">10</td><td>페이지 오류 없음</td><td>0건</td><td>0건</td><td><code>pageerror 수 === 0</code></td><td><span class="pill pass">PASS</span></td><td>—</td></tr></tbody></table></div></section>
+<section class="shots"><h2>증적 (주석 스크린샷)</h2><p style="margin:0;color:var(--muted)">빨간 테두리와 번호는 표의 테스트 케이스 번호입니다. 그 요소를 확인해 판정했습니다.</p><figure id="shot-1"><img src="shot-01.jpg" alt="09:00 · 09:30을 기록한 뒤의 보드" loading="lazy" width="1440" height="900"><figcaption><strong>화면 1. 09:00 · 09:30을 기록한 뒤의 보드</strong><div class="marks"><span><span class="badge">1</span>Daily Log 다음 탭에 Daily Kanban, 칸 6개</span><span><span class="badge">2</span>기록한 업무마다 카드, 지금(09:30 칸)의 업무가 Doing, 앞의 업무는 Wait</span><span><span class="badge">2</span>기록한 업무마다 카드, 지금(09:30 칸)의 업무가 Doing, 앞의 업무는 Wait</span></div></figcaption></figure><figure id="shot-2"><img src="shot-02.jpg" alt="10:00 기록 뒤 + 직접 만든 카드를 ToDo로 끈 뒤" loading="lazy" width="1440" height="900"><figcaption><strong>화면 2. 10:00 기록 뒤 + 직접 만든 카드를 ToDo로 끈 뒤</strong><div class="marks"><span><span class="badge">3</span>다음 칸(10:00)을 기록하면 그 업무가 Doing, 도면 검토는 Wait로</span><span><span class="badge">4</span>Backlog에 카드 추가, 끌어서 ToDo로</span></div></figcaption></figure><figure id="shot-3"><img src="shot-03.jpg" alt="Done으로 옮긴 카드(완료 날짜)" loading="lazy" width="1440" height="900"><figcaption><strong>화면 3. Done으로 옮긴 카드(완료 날짜)</strong><div class="marks"><span><span class="badge">5</span>… 메뉴로 DoneCheck → Done, 완료 날짜 표시</span></div></figcaption></figure><figure id="shot-4"><img src="shot-04.jpg" alt="다시 기록한 '도면 검토'가 Doing으로" loading="lazy" width="1440" height="900"><figcaption><strong>화면 4. 다시 기록한 '도면 검토'가 Doing으로</strong><div class="marks"><span><span class="badge">7</span>끝난 업무를 다시 기록하면 Doing으로 돌아옴</span><span><span class="badge">8</span>칸 이동이 모두 기록됨(여정)</span></div></figcaption></figure></section>
+<details><summary>용어</summary><dl><dt>테스트 리포트 (Test Report)</dt><dd>무엇을 어떻게 확인했고 결과가 어땠는지 정리한 검증 보고서. 이 문서.</dd><dt>테스트 케이스 (Test Case)</dt><dd>확인 항목 하나. 표의 한 줄.</dd><dt>인수 기준 (Acceptance Criteria)</dt><dd>요청이 &quot;다 됐다&quot;고 볼 조건. 테스트 케이스는 여기서 나온다.</dd><dt>기대 결과 / 실제 결과 (Expected / Actual)</dt><dd>나와야 하는 것과 실제로 나온 것. 판정 근거의 조건을 만족하면 PASS.</dd><dt>단언 (Assertion)</dt><dd>판정 조건을 코드로 쓴 것. 표의 &quot;판정 근거&quot; 열.</dd><dt>증적 (Test Evidence)</dt><dd>통과를 보여 주는 증거. 여기서는 주석 스크린샷.</dd><dt>주석 스크린샷 (Annotated Screenshot)</dt><dd>확인한 요소에 빨간 테두리와 테스트 케이스 번호를 그린 화면.</dd><dt>E2E 테스트 (End-to-End)</dt><dd>실제 브라우저(Chromium)로 사용자처럼 눌러 보며 확인하는 테스트. 이 보고서의 테스트.</dd><dt>단위 테스트 (Unit Test)</dt><dd>함수 하나를 따로 확인하는 테스트(npm test).</dd><dt>회귀 테스트 (Regression Test)</dt><dd>새 기능 때문에 예전 기능이 깨지지 않았는지 전체를 다시 돌리는 것(npm run test:e2e).</dd><dt>추적성 (Traceability)</dt><dd>요청 ↔ 테스트 ↔ 커밋을 서로 찾아갈 수 있게 연결해 두는 것. 머리말의 커밋·스위트 정보.</dd></dl></details>
+</div></body></html>

diff --git a/docs/test-reports/index.html b/docs/test-reports/index.html
@@ -47,5 +47,5 @@ dl { display: grid; grid-template-columns: max-content 1fr; gap: 6px 18px; margi
 a { color: var(--accent) } a:focus-visible, summary:focus-visible { outline: 2px solid var(--accent); outline-offset: 2px }
 .list { display: grid; gap: 12px } .row { display: flex; flex-wrap: wrap; gap: 8px 16px; align-items: baseline; justify-content: space-between }
 @media (max-width: 640px) { dl { grid-template-columns: 1fr } h1 { font-size: 1.5rem } }
-</style></head><body><div class="wrap"><header class="head"><p class="eyebrow">TeamEmbedded · 검증 기록</p><h1>검증 보고서</h1><p style="margin:0;color:var(--muted);max-width:68ch">기능마다 무엇을 확인했고 어떻게 PASS로 판정했는지, 확인한 화면에 표시해 남긴 기록입니다. 브라우저 테스트(<code>npm run test:e2e</code>)를 <code>REPORT=1</code>로 돌리면 다시 만들어집니다.</p></header><div class="list"><a class="box" href="2026-11-26-dock/index.html" style="text-decoration:none;color:inherit"><div class="row"><h2>Dock 메뉴 (아래 가운데, 자동 숨김)</h2><span class="pill pass">11 / 11 PASS</span></div><p style="margin:6px 0 0;color:var(--muted)">2026-11-26 · 커밋 <code>873f7ac</code> · 증적 3장 · <code>tests/e2e/batchM.e2e.cjs</code></p></a><a class="box" href="2026-11-26-quick-slots/index.html" style="text-decoration:none;color:inherit"><div class="row"><h2>Quick add 프리셋 슬롯 4개 · 드롭다운 번호 간격</h2><span class="pill pass">8 / 8 PASS</span></div><p style="margin:6px 0 0;color:var(--muted)">2026-11-26 · 커밋 <code>88f6abc</code> · 증적 3장 · <code>tests/e2e/batchQ.e2e.cjs</code></p></a><a class="box" href="2026-11-26-mid/index.html" style="text-decoration:none;color:inherit"><div class="row"><h2>Type(유형) 칸 · 행 + 버튼</h2><span class="pill pass">23 / 23 PASS</span></div><p style="margin:6px 0 0;color:var(--muted)">2026-11-26 · 커밋 <code>873f7ac</code> · 증적 10장 · <code>tests/e2e/batchL.e2e.cjs</code></p></a><a class="box" href="2026-11-26-type-prefs/index.html" style="text-decoration:none;color:inherit"><div class="row"><h2>드롭다운 잘림 수정 · Type 순서·색 (개인)</h2><span class="pill pass">9 / 9 PASS</span></div><p style="margin:6px 0 0;color:var(--muted)">2026-11-26 · 커밋 <code>873f7ac</code> · 증적 4장 · <code>tests/e2e/batchP.e2e.cjs</code></p></a><a class="box" href="2026-11-26-templates-table/index.html" style="text-decoration:none;color:inherit"><div class="row"><h2>반복 업무 표 · 칸 이름 Project/Type/Task · + 칸 줄</h2><span class="pill pass">11 / 11 PASS</span></div><p style="margin:6px 0 0;color:var(--muted)">2026-11-26 · 커밋 <code>873f7ac</code> · 증적 6장 · <code>tests/e2e/batchN.e2e.cjs</code></p></a><a class="box" href="2026-11-26-layout/index.html" style="text-decoration:none;color:inherit"><div class="row"><h2>창 배치 편집 · 오른쪽 Dock · Today 그래프 · 자동 줄바꿈 · 빠른 등록</h2><span class="pill pass">21 / 21 PASS</span></div><p style="margin:6px 0 0;color:var(--muted)">2026-11-26 · 커밋 <code>873f7ac</code> · 증적 10장 · <code>tests/e2e/batchO.e2e.cjs</code></p></a></div>
+</style></head><body><div class="wrap"><header class="head"><p class="eyebrow">TeamEmbedded · 검증 기록</p><h1>검증 보고서</h1><p style="margin:0;color:var(--muted);max-width:68ch">기능마다 무엇을 확인했고 어떻게 PASS로 판정했는지, 확인한 화면에 표시해 남긴 기록입니다. 브라우저 테스트(<code>npm run test:e2e</code>)를 <code>REPORT=1</code>로 돌리면 다시 만들어집니다.</p></header><div class="list"><a class="box" href="2026-11-26-kanban/index.html" style="text-decoration:none;color:inherit"><div class="row"><h2>Daily Kanban (Daily Log와 연동)</h2><span class="pill pass">10 / 10 PASS</span></div><p style="margin:6px 0 0;color:var(--muted)">2026-11-26 · 커밋 <code>f5d5a68</code> · 증적 4장 · <code>tests/e2e/batchR.e2e.cjs</code></p></a><a class="box" href="2026-11-26-dock/index.html" style="text-decoration:none;color:inherit"><div class="row"><h2>Dock 메뉴 (아래 가운데, 자동 숨김)</h2><span class="pill pass">11 / 11 PASS</span></div><p style="margin:6px 0 0;color:var(--muted)">2026-11-26 · 커밋 <code>873f7ac</code> · 증적 3장 · <code>tests/e2e/batchM.e2e.cjs</code></p></a><a class="box" href="2026-11-26-quick-slots/index.html" style="text-decoration:none;color:inherit"><div class="row"><h2>Quick add 프리셋 슬롯 4개 · 드롭다운 번호 간격</h2><span class="pill pass">8 / 8 PASS</span></div><p style="margin:6px 0 0;color:var(--muted)">2026-11-26 · 커밋 <code>88f6abc</code> · 증적 3장 · <code>tests/e2e/batchQ.e2e.cjs</code></p></a><a class="box" href="2026-11-26-mid/index.html" style="text-decoration:none;color:inherit"><div class="row"><h2>Type(유형) 칸 · 행 + 버튼</h2><span class="pill pass">23 / 23 PASS</span></div><p style="margin:6px 0 0;color:var(--muted)">2026-11-26 · 커밋 <code>873f7ac</code> · 증적 10장 · <code>tests/e2e/batchL.e2e.cjs</code></p></a><a class="box" href="2026-11-26-type-prefs/index.html" style="text-decoration:none;color:inherit"><div class="row"><h2>드롭다운 잘림 수정 · Type 순서·색 (개인)</h2><span class="pill pass">9 / 9 PASS</span></div><p style="margin:6px 0 0;color:var(--muted)">2026-11-26 · 커밋 <code>873f7ac</code> · 증적 4장 · <code>tests/e2e/batchP.e2e.cjs</code></p></a><a class="box" href="2026-11-26-templates-table/index.html" style="text-decoration:none;color:inherit"><div class="row"><h2>반복 업무 표 · 칸 이름 Project/Type/Task · + 칸 줄</h2><span class="pill pass">11 / 11 PASS</span></div><p style="margin:6px 0 0;color:var(--muted)">2026-11-26 · 커밋 <code>873f7ac</code> · 증적 6장 · <code>tests/e2e/batchN.e2e.cjs</code></p></a><a class="box" href="2026-11-26-layout/index.html" style="text-decoration:none;color:inherit"><div class="row"><h2>창 배치 편집 · 오른쪽 Dock · Today 그래프 · 자동 줄바꿈 · 빠른 등록</h2><span class="pill pass">22 / 22 PASS</span></div><p style="margin:6px 0 0;color:var(--muted)">2026-11-26 · 커밋 <code>f5d5a68</code> · 증적 10장 · <code>tests/e2e/batchO.e2e.cjs</code></p></a></div>
 <details><summary>용어</summary><dl><dt>테스트 리포트 (Test Report)</dt><dd>무엇을 어떻게 확인했고 결과가 어땠는지 정리한 검증 보고서. 이 문서.</dd><dt>테스트 케이스 (Test Case)</dt><dd>확인 항목 하나. 표의 한 줄.</dd><dt>인수 기준 (Acceptance Criteria)</dt><dd>요청이 &quot;다 됐다&quot;고 볼 조건. 테스트 케이스는 여기서 나온다.</dd><dt>기대 결과 / 실제 결과 (Expected / Actual)</dt><dd>나와야 하는 것과 실제로 나온 것. 판정 근거의 조건을 만족하면 PASS.</dd><dt>단언 (Assertion)</dt><dd>판정 조건을 코드로 쓴 것. 표의 &quot;판정 근거&quot; 열.</dd><dt>증적 (Test Evidence)</dt><dd>통과를 보여 주는 증거. 여기서는 주석 스크린샷.</dd><dt>주석 스크린샷 (Annotated Screenshot)</dt><dd>확인한 요소에 빨간 테두리와 테스트 케이스 번호를 그린 화면.</dd><dt>E2E 테스트 (End-to-End)</dt><dd>실제 브라우저(Chromium)로 사용자처럼 눌러 보며 확인하는 테스트. 이 보고서의 테스트.</dd><dt>단위 테스트 (Unit Test)</dt><dd>함수 하나를 따로 확인하는 테스트(npm test).</dd><dt>회귀 테스트 (Regression Test)</dt><dd>새 기능 때문에 예전 기능이 깨지지 않았는지 전체를 다시 돌리는 것(npm run test:e2e).</dd><dt>추적성 (Traceability)</dt><dd>요청 ↔ 테스트 ↔ 커밋을 서로 찾아갈 수 있게 연결해 두는 것. 머리말의 커밋·스위트 정보.</dd></dl></details></div></body></html>
